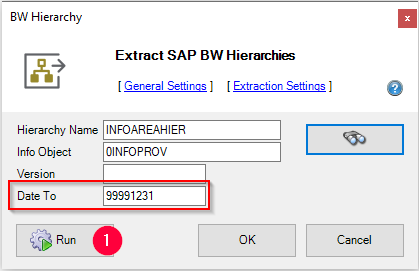
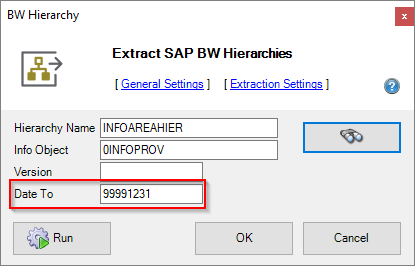
en_Settings,Table, image

Changed region(s): [[0.0, 0.0, 1.0, 1.0], [0.2602, 0.3008, 0.8096, 0.3609], [0.2602, 0.1805, 0.7229, 0.2406]]

diff --git a/_includes/_content/en/bw-hierarchies/hierarchies-extraction-settings.md b/_includes/_content/en/bw-hierarchies/hierarchies-extraction-settings.md
@@ -1,36 +1,52 @@
-Click the *Extraction Settings* link to open the Extraction Settings dialog.
+### To Open Extraction Settings
 
-**Representation** 
+![Extraction Settings](/img/content/xu/xu_bw-hierarchies_Extraction-Settings.png){:class="img-responsive"}
+1. In the window "Extract SAP BW Hierarchies" click on **[Extraction Settings]**. The window "Hierarchy Settings" opens.
+2. Change the settings, if needed.
+3. Click **[OK]** to confirm.
 
-- **ParentChild**: The hierarchy has the SAP parent-child format.
+### Hierarchy Settings
+![Hierarchies-Settings](/img/content/Hierarchy-settings.png){:class="img-responsive"}
+The window “Hierarchy Settings” contains two subsections:
+- Extraction Settings
+- Natural Representation Settings
 
+#### Extraction Settings
+**Representation:** 
+- **ParentChild**: The hierarchy is represented in the SAP parent-child format.
 ![Hierarchies-Parent-Child](/img/content/Hierarchies-Parent-Child.png){:class="img-responsive"}
+- **Natural**: The SAP parent-child hierarchy is transformed into a regular hierarchy.
 
-- **Natural**: The parent child hierarchy will be transformed in a regular hierarchy.
 
 **Remove Leading Zeros**<br>
-Removes all leading zeros using ALPHA conversion in the column NodeName. NodeName can then be used in a join condition with the corresponding Dimension-Key of a BWCube extraction.<br>
-Works also for compound InfoObjects. Example: 0CO_AREA (1000) and 0COSTCENTER (0000003100) will become 1000/3100.
+Removes all leading zeros (via ALPHA conversion) in the column NodeName.
+NodeName can then be used in a join condition with the corresponding Dimension-Key of a BW Cube extraction.<br>
+The conversion works also for compound InfoObjects.<br> 
+Example: 0CO_AREA (1000) and 0COSTCENTER (0000003100) becomes 1000/3100.
 
 **Fetch description texts**<br>
-This means that the field NodeText contains the node text based on the system language settings. 
+Sets the field *NodeText* to the node text based on the system language settings. 
 
-**Natural Representation Settings**<br>
-is active only, when Representation has the value Natural
+#### Natural Representation Settings
+
+{: .box-note}
+**Note:** the subsection **Natural Representation Settings** is only active, when **Representation** field is set to value *Natural*.
 
 **Level Count** <br>
-Defines the maximum number of levels if the representation natural is selected. In the following screenshot you see the hierarchie shown in the previous screenshot with five levels in the representation natural.
-
+Defines the maximum number of levels. 
+The following example depicts the previously shown hierarchy with five levels and in the representation set to *Natural*.
 ![Hierarchy-Parent-Child-Natural](/img/content/Hierarchy-Parent-Child-Natural.png){:class="img-responsive"}
-
-**Fill empty levels**  <br>
-If the natural representation is selected the bottom element of the hierarchy will be copied until the last level. In the following screenshot you will see the hierarchy from above with the option Repeat Leaves activated.
-
-
-![Hierarchy-Parent-Child-Repeat](/img/content/Hierarchy-Parent-Child-Repeat.png){:class="img-responsive"}
-
-**Description texts for levels**<br>
-Means, that the output has a field LevelTextN for each field LevelN, that contains the text based on the system language settings.
 
 **Leaves only**<br>
 Delivers only the leaves as data records.
+![Hierarchy-Parent-Child-Repeat](/img/content/Hierarchy-leaves-only.png){:class="img-responsive"}
+
+**Fill empty levels**  <br>
+Copies the bottom element of the hierarchy until the last level.
+The following example depicts the previously shown hierarchy with the activated *Repeat Leaves* option.
+![Hierarchy-Parent-Child-Repeat](/img/content/Hierarchy-Parent-Child-Repeat.png){:class="img-responsive"}
+
+
+**Description texts for levels**<br>
+Sets the output field *LevelTextN* for each field *LevelN* containing the text based on the system language settings.
+

diff --git a/_includes/_content/en/bw-hierarchies/table-output.md b/_includes/_content/en/bw-hierarchies/table-output.md
@@ -1,4 +1,8 @@
-Compared to other source components, the output of hierarchy components is fixed. It always has the same columns for every hierarchy, as described in the following:
+
+### Output of Hierarchy Tables
+
+Compared to other source components, the output of hierarchy components is fixed. It always contains the same columns.
+![Hierarchy-Table-Output](/img/content/Hierarchy-Table-Output-Result.png){:class="img-responsive"}
 
 **NodeID**<br>
 Unique node key.
@@ -21,10 +25,10 @@ The node’s (technical) name.
 **NodeText** <br>
 The descriptive text in the respective logon language (only when FetchText is set to true in the settings).
 
-The original hierarchy of PM_COUNTRY looks in SAP as follows:
+<br>
+The following example depicts the original hierarchy in SAP of PM_COUNTRY.
 
 ![Hierarchy-Table-SAP](/img/content/Hierarchy-Table-Output.png){:class="img-responsive"}
 
-The output looks as follows:
 
-![Hierarchy-Table-Output](/img/content/Hierarchy-Table-Output-Result.png){:class="img-responsive"}
+

diff --git a/_includes/_content/en/bw-hierarchies/hierarchy-extraction-define.md b/_includes/_content/en/bw-hierarchies/hierarchy-extraction-define.md
@@ -21,4 +21,5 @@ The component saves all relevant data for further processing.<br>
 The settings can be altered after creating extractions any time.<br>
 
 **Date To**<br>
-The defalut value for **Date To** is *99991231*. To change the value, click **[Run]** and override the value.
+![Change Date To](/img/content/xu/xu_search-hierarchy-name-filled.png){:class="img-responsive"}
+The defalut value for **Date To** is *99991231*. To change the value, click **[Run]**( and override the value.

diff --git a/content/_en/xtract-universal/bw-hierarchies/hierarchies-extraction-settings.md b/content/_en/xtract-universal/bw-hierarchies/hierarchies-extraction-settings.md
@@ -1,7 +1,7 @@
 ---
 ref: xu-bw-hierarchies-03
 layout: page
-title: Extraction Settings
+title: Xtract Hierarchy Extraction Settings
 description: Extraction Settings
 product: xtract-universal
 parent: bw-hierarchies

diff --git a/content/_en/xtract-universal/bw-hierarchies/table-output.md b/content/_en/xtract-universal/bw-hierarchies/table-output.md
@@ -1,7 +1,7 @@
 ---
 ref: xu-bw-hierarchies-02
 layout: page
-title: Table output
+title: Output of Hierarchy Tables
 description: Table output
 product: xtract-universal
 parent: bw-hierarchies
